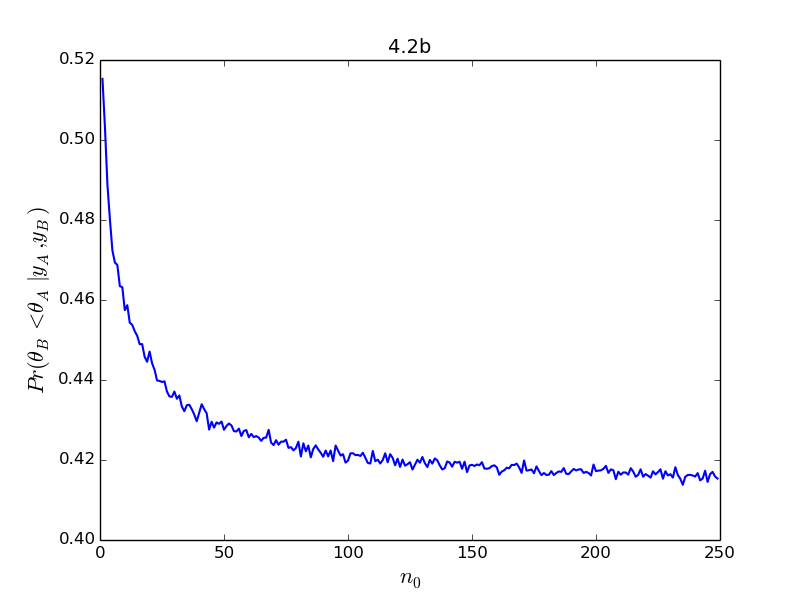
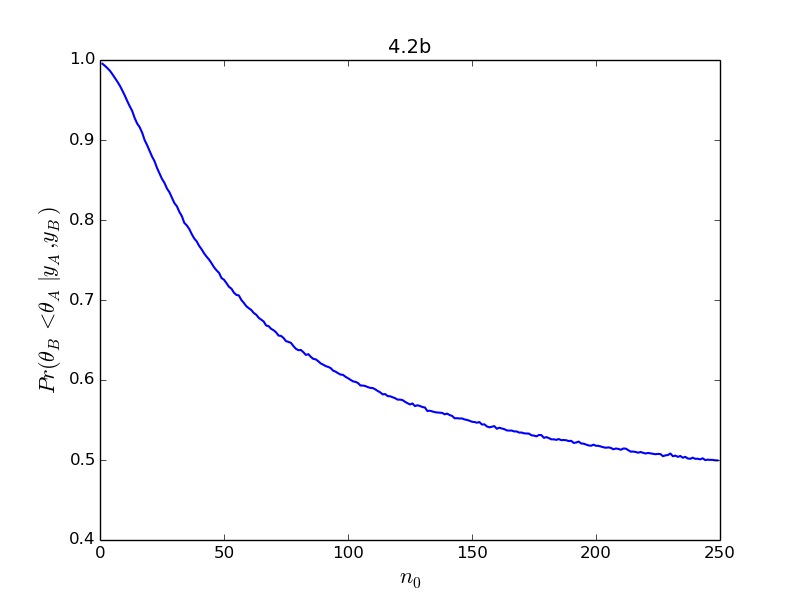
use posterior in 4.2b

diff --git a/hw4_2.py b/hw4_2.py
@@ -53,8 +53,8 @@ def part_b(fname=fname):
     Pr = np.zeros(n0_list.size) 
     for j, n0 in enumerate(n0_list):
         y = 0.0
-        alpha=12*n0
-        beta=n0 
+        alpha=12*n0+113
+        beta=n0+13 
         pB = gamma.rvs(alpha, scale=1.0/beta, size=n)
         for i in range(n):
             if (pB[i] < pA[i]):
